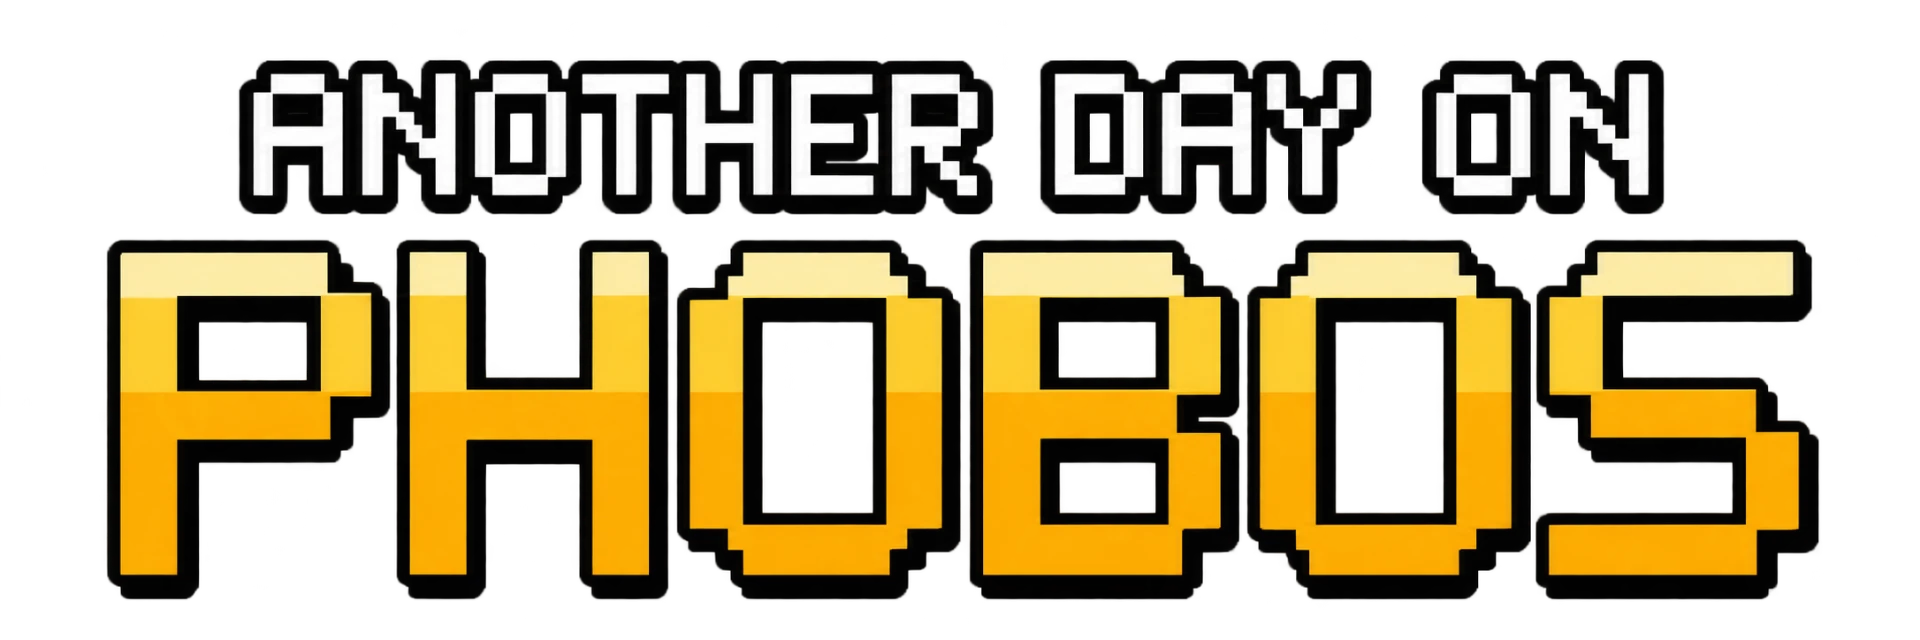
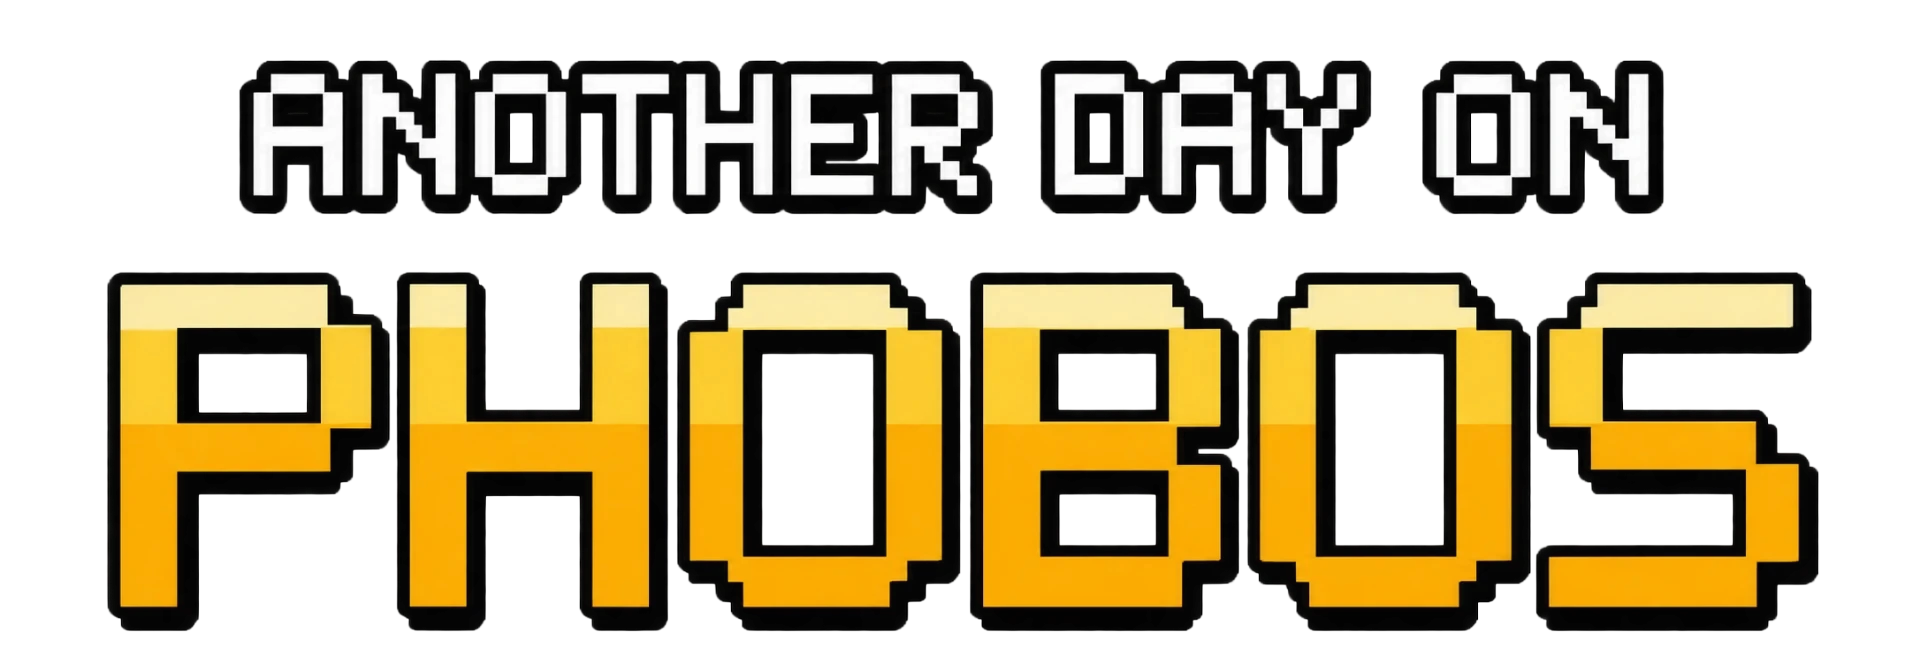
KazukiLabs: add space between PHOBOS lines and nudge title down

diff --git a/src/components/PhobosSection.tsx b/src/components/PhobosSection.tsx
@@ -4,11 +4,11 @@ import poster from "@/assets/another-day-on-phobos-poster.webp";
 import title from "@/assets/another-day-on-phobos-title-upload.webp";
 
 const PhobosSection = () => (
-  <section aria-labelledby="phobos-title" className="phobos-section px-5 pb-14 pt-8 text-center sm:pb-20 sm:pt-12">
+  <section aria-labelledby="phobos-title" className="phobos-section px-5 pb-14 pt-12 text-center sm:pb-20 sm:pt-16">
     <h2 id="phobos-title" className="mx-auto w-full max-w-[23rem] sm:max-w-[28rem]">
-      <img src={title} alt="Another Day on PHOBOS" width={1920} height={640} className="block h-auto w-full" />
+      <img src={title} alt="Another Day on PHOBOS" width={1920} height={672} className="block h-auto w-full" />
     </h2>
-    <p className="mx-auto my-8 max-w-xl font-heading text-base sm:my-10 sm:text-lg">
+    <p className="mx-auto my-6 max-w-xl font-heading text-base sm:my-8 sm:text-lg">
       Join the doctor on the strangest assignment in the galaxy
     </p>
     <div className="phobos-player mx-auto w-full max-w-[25rem] overflow-hidden rounded-[2rem] bg-ink-black p-2 sm:p-2.5">
